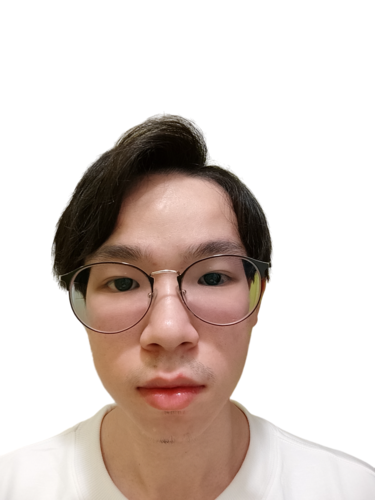
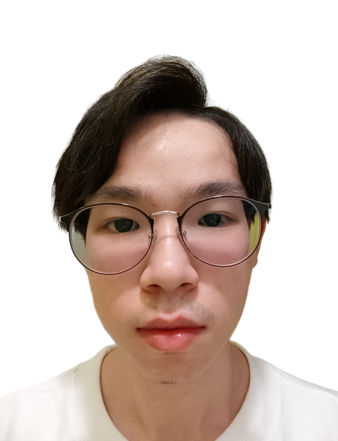
Update portfolio

diff --git a/src/constants/index.js b/src/constants/index.js
@@ -1,13 +1,10 @@
-export const HERO_CONTENT = `I am motivated and detail-oriented software engineering
-                            student with hands-on experience in web development.
-                            Knowledge in HTML, CSS, JavaScript, and React, with
-                            understanding of responsive design principles. Adept at
-                            collaborating with teams to create user-friendly web
-                            applications.Willing to learn from experienced developers
-                            during an internship.
-                            `;
+export const HERO_CONTENT = `Hi👋,
+I am a Software Engineering graduate passionate about building modern, scalable, and user-friendly web applications. I work across the full stack with React, Django, and other cutting-edge technologies to create seamless digital experiences.
+`;
 
-export const ABOUT_TEXT = `I am a motivated and detail-oriented software engineering student at UTAR Sungai Long campus, with hands-on experience in web development. My expertise includes HTML, CSS, JavaScript, and React, and I have understanding of responsive design principles. I am passionate about front-end development and enjoy collaborating with teams to create user-friendly web applications. I am eager to learn from experienced developers during an internship and to further develop my skills in building intuitive and dynamic user interfaces.`;
+export const ABOUT_TEXT = `I'm a recent Software Engineering graduate with hands-on experience in full-stack web development.  
+From designing responsive front-end interfaces with React to building reliable back-end systems with Django, I enjoy creating solutions that are both functional and user-friendly. I'm also proficient with Git/GitHub for version control and thrive in collaborative environments where problem-solving and innovation come together. Beyond coding, I'm passionate about continuously learning new technologies and improving my craft to deliver impactful results. Currently, I'm seeking opportunities where I can apply my skills, contribute to exciting projects, and grow as a developer.
+`;
 
 export const EXPERIENCES = [
   {
@@ -24,9 +21,29 @@ export const EXPERIENCES = [
                   `,
     technologies: ["WordPress", "HTML", "CSS", "JavaScript"],
   },
+  {
+    year: "OCT 2024 - Jan 2025",
+    role: "Software Development Intern",
+    company: "ITS Mart Sdn. Bhd.",
+    description: `Collaborated on enhancing and customizing Odoo CRM modules within the ERP system for the telecommunications industry (Freshtel Internet Sdn Bhd). I contributed to feature improvements and bug fixes, which helped increase system functionality and stability while strengthening my skills in Python and the Odoo framework. In addition, I applied performance optimization techniques to improve application efficiency and adhered to company coding standards, Git workflows, and best practices in software development. I also prepared design documentation and provided project updates during weekly meetings to ensure smooth communication and alignment across the team.
+                  `,
+    technologies: ["Odoo 11", "ERP", "CRM", "Python", "JavaScript", "Git", "Ubuntu", "PostgreSQL"],
+  },
 ];
 
 export const PROJECTS = [
+  {
+    title: "AIRA - AI Resume Analyzer using OpenAI Models",
+    description:
+      "Developed an AI-powered resume analyzer that leverages OpenAI models to evaluate uploaded resumes and provide intelligent feedback with improvement recommendations. The application was designed and built using React.js for the frontend and Django for the backend, with Tailwind CSS to enhance the UI/UX. I integrated the OpenAI API for AI functionality and used PostgreSQL as the database, deploying the project on Render for accessibility. To ensure security and reliability, I implemented Google OAuth for authentication and integrated Google reCAPTCHA to prevent spam.",
+    technologies: ["React.js", "Django", "Tailwind CSS", "Python", "Javascript", "RESTful API", "OpenAI API Key", "PostgreSQL", "Google OAuth", "reCAPTCHA"],
+  },
+  {
+    title: "Prime Cinemas - Movie Ticket Booking System",
+    description:
+      "Developed a full-stack movie ticket booking system using Laravel 8 with Bootstrap for a responsive and user-friendly interface. Implemented key features such as movie listings, showtimes, seat selection, and ticket booking workflows. Designed region-based filtering for showtimes and built an order management system linking users, movies, and bookings. Applied session handling and validation to streamline seat selection and ensure accurate ticket reservations.",
+    technologies: ["Laravel 8", "PHP", "Bootstrap", "Javascript", "MySQL"],
+  },
   {
     title: "Online Food Ordering System (OFOS)",
     description:
@@ -54,7 +71,7 @@ export const PROJECTS = [
 ];
 
 export const CONTACT = {
-  address: "Sungai Long, Kajang, Selangor",
+  address: "Johor Bahru, Johor, Malaysia",
   phoneNo: "+60 16-349 5793",
   email: "tanjunsam3@gmail.com",
 };

diff --git a/src/components/Skills.jsx b/src/components/Skills.jsx
@@ -1,43 +1,50 @@
 import React from 'react'
 import { RiReactjsLine } from 'react-icons/ri'
-import { FaHtml5 } from "react-icons/fa";
-import { FaCss3 } from "react-icons/fa";
+import { FaHtml5, FaCss3, FaPhp, FaGitAlt, FaLaravel } from "react-icons/fa";
+import { FaPython } from "react-icons/fa6";
 import { RiJavascriptLine } from "react-icons/ri";
-import { FaPhp } from "react-icons/fa";
-import { SiMysql } from "react-icons/si";
-import { FaGitAlt } from "react-icons/fa";
-import { AiOutlinePython } from "react-icons/ai";
+import { SiMysql, SiDjango } from "react-icons/si";
 
 export default function Skills() {
   return (
-    <div className='border-b border-neutral-800 pb-24'>
-      <h1 className='my-20 text-center text-4xl'>Skills</h1>
-      <div className='flex flex-wrap items-center justify-center gap-4'>
-        <div className='rounded-2xl border-4 border-neutral-800 p-4'>
-            <RiReactjsLine className='text-7xl text-cyan-500'/>
-        </div>
-        <div className='rounded-2xl border-4 border-neutral-800 p-4'>
-            <FaHtml5 className='text-7xl text-orange-600'/>
-        </div>
-        <div className='rounded-2xl border-4 border-neutral-800 p-4'>
-            <FaCss3 className='text-7xl text-blue-500'/>
-        </div>
-        <div className='rounded-2xl border-4 border-neutral-800 p-4'>
-            <RiJavascriptLine className='text-7xl text-yellow-400'/>
-        </div>
-        <div className='rounded-2xl border-4 border-neutral-800 p-4'>
-            <FaPhp className='text-7xl text-indigo-700'/>
-        </div>
-        <div className='rounded-2xl border-4 border-neutral-800 p-4'>
-            <SiMysql className='text-7xl text-blue-500'/>
-        </div>
-        <div className='rounded-2xl border-4 border-neutral-800 p-4'>
-            <FaGitAlt className='text-7xl text-orange-500'/>
-        </div>
-        <div className='rounded-2xl border-4 border-neutral-800 p-4'>
-            <AiOutlinePython className='text-7xl text-yellow-500'/>
-        </div>
-      </div>
+    <div className="border-b border-white pb-24">
+  <h1 className="my-20 text-center text-4xl text-white">Skills</h1>
+
+  {/* Responsive Grid */}
+  <div className="mx-auto max-w-screen-lg grid grid-cols-2 sm:grid-cols-3 md:grid-cols-4 lg:grid-cols-5 gap-6 justify-items-center">
+    <div className="rounded-2xl border-4 border-neutral-300 p-4">
+      <FaHtml5 className="text-7xl text-orange-600" />
     </div>
+    <div className="rounded-2xl border-4 border-neutral-300 p-4">
+      <FaCss3 className="text-7xl text-blue-500" />
+    </div>
+    <div className="rounded-2xl border-4 border-neutral-300 p-4">
+      <RiJavascriptLine className="text-7xl text-yellow-400" />
+    </div>
+    <div className="rounded-2xl border-4 border-neutral-300 p-4">
+      <FaPython className="text-7xl" style={{ color: "#3776AB" }} />
+    </div>
+    <div className="rounded-2xl border-4 border-neutral-300 p-4">
+      <RiReactjsLine className="text-7xl text-cyan-500" />
+    </div>
+    <div className="rounded-2xl border-4 border-neutral-300 p-4">
+      <SiDjango className="text-7xl text-green-500" />
+    </div>
+    <div className="rounded-2xl border-4 border-neutral-300 p-4">
+      <FaLaravel className="text-7xl text-red-500" />
+    </div>
+    <div className="rounded-2xl border-4 border-neutral-300 p-4">
+      <FaPhp className="text-7xl text-indigo-700" />
+    </div>
+    <div className="rounded-2xl border-4 border-neutral-300 p-4">
+      <SiMysql className="text-7xl text-blue-500" />
+    </div>
+    <div className="rounded-2xl border-4 border-neutral-300 p-4">
+      <FaGitAlt className="text-7xl text-orange-500" />
+    </div>
+  </div>
+</div>
+
+
   )
 }

diff --git a/src/components/WorkExperiece.jsx b/src/components/WorkExperiece.jsx
@@ -3,19 +3,19 @@ import { EXPERIENCES } from '../constants'
 
 export default function WorkExperiece() {
   return (
-    <div className='border-b border-neutral-900 pb4'>
-      <h1 className='my-20 text-center text-4xl'>Work Experience</h1>
+    <div className='border-b border-white pb4'>
+      <h1 className='my-20 text-center text-4xl text-white'>Work Experience</h1>
       <div>
         {EXPERIENCES.map((exp, index)=>(
             <div key={index} className='mb-8 flex flex-wrap lg:justify-center'>
                 <div className='w-full lg:w-1/4'>
-                    <p className='mb-2 text-sm'>{exp.year}</p>
+                    <p className='mb-2 text-sm text-white'>{exp.year}</p>
                 </div>
                 <div className='w-full max-w-xl lg:w-3/4'>
-                    <h6 className='mb-2 font-semibold'>
+                    <h6 className='mb-2 font-semibold text-white'>
                         {exp.role} - <span className='text-sm text-purple-400'>{exp.company}</span>
                     </h6>
-                    <p className='mb-4 text-neutral-900'>
+                    <p className='mb-4 text-neutral-300'>
                         {exp.description}
                     </p>
                     {exp.technologies.map((tech, index)=>(

diff --git a/src/components/Hero.jsx b/src/components/Hero.jsx
@@ -4,17 +4,17 @@ import profilePic from '../assets/profilePic1.png'
 
 export default function Hero() {
   return (
-    <div className='border-b border-neutral-900 pb-4 lg:mb-35'>
+    <div className='border-b border-white pb-4 lg:mb-35'>
       <div className='flex flex-wrap'>
         <div className='w-full lg:w-1/2'>
             <div className='flex flex-col items-center lg:items-start'>
-                <h1 className='pb-16 text-6xl font-thin tracking-tight lg:mt-16 lg:text-8xl'>
+                <h1 className='pb-16 text-6xl text-white font-thin tracking-tight lg:mt-16 lg:text-8xl'>
                     Tan Jun Sam
                 </h1>
                 <span className='bg-gradient-to-r from-pink-300 via-slate-500 to-purple-500 bg-clip-text text-4xl tracking-tight text-transparent'>
                     Software Engineering
                 </span>
-                <p className='my-2 max-w-xl py-6 font-light trancking-tighter'>
+                <p className='my-2 max-w-xl py-6 text-white font-light trancking-tighter whitespace-pre-line'>
                     {HERO_CONTENT}
                 </p>
             </div>

diff --git a/src/components/Projects.jsx b/src/components/Projects.jsx
@@ -3,16 +3,16 @@ import { PROJECTS } from '../constants'
 
 export default function Projects() {
   return (
-    <div className='border-b border-neutral-900 pb-4'>
-      <h1 className='my-20 text-center text-4xl'>
+    <div className='border-b border-white pb-4'>
+      <h1 className='my-20 text-center text-4xl text-white'>
         Projects
       </h1>
       <div>
         {PROJECTS.map((project, index) => (
             <div key={index} className='mb-8 flex flex-wrap lg:justify-center'>
                 <div className='w-full max-w-xl lg:w-3/4'>
-                    <h6 className='mb-2 font-semibold'>{project.title}</h6>
-                    <p className='mb-4'>{project.description}</p>
+                    <h6 className='mb-2 font-semibold text-white'>{project.title}</h6>
+                    <p className='mb-4 text-neutral-300'>{project.description}</p>
                     <div className='flex flex-wrap'>
                       {project.technologies.map((tech, index) =>(
                           <span key={index} className='mr-2 mb-2 rounded bg-purple-400 px-2 py-1 text-sm font-medium text-white'>

diff --git a/src/components/Navbar.jsx b/src/components/Navbar.jsx
@@ -7,8 +7,20 @@ export default function Navbar() {
     <nav className='mb-20 flex items-center justify-between py-6'>
         <div className='flex-1'></div>
         <div className='m-8 flex items-center justify-end gap-4 text-3xl'>
-            <a href="https://www.linkedin.com/in/tan-jun-sam-936a8b315/" target='_blank'><FaLinkedin /></a>
-            <a href="https://github.com/KawaiiMoe3" target='_blank'><FaGithub /></a>
+            <a 
+              href="https://www.linkedin.com/in/tan-jun-sam-936a8b315/" 
+              className='text-white' 
+              target='_blank'
+            >
+              <FaLinkedin />
+            </a>
+            <a 
+              href="https://github.com/KawaiiMoe3" 
+              className='text-white' 
+              target='_blank'
+            >
+              <FaGithub />
+            </a>
         </div>
     </nav>
   )

diff --git a/src/components/About.jsx b/src/components/About.jsx
@@ -4,8 +4,8 @@ import { ABOUT_TEXT } from '../constants'
 
 export default function About() {
   return (
-    <div className='border-b border-neutral-900 pb-4'>
-      <h1 className='my-20 text-center text-4xl'>
+    <div className='border-b border-white pb-4'>
+      <h1 className='my-20 text-center text-4xl text-white'>
             About <span className='text-neutral'>Me</span>
         </h1>
         <div className='flex flex-wrap'>
@@ -16,7 +16,7 @@ export default function About() {
             </div>
             <div className='w-full lg:w-1/2'>
                 <div className='flex justify-center lg:justify-start'>
-                    <p className='my-2 max-w-xl py-6'>{ABOUT_TEXT}</p>
+                    <p className='my-2 max-w-xl py-6 text-white'>{ABOUT_TEXT}</p>
                 </div>
             </div>
         </div>

diff --git a/src/components/Contact.jsx b/src/components/Contact.jsx
@@ -4,13 +4,13 @@ import { CONTACT } from '../constants'
 export default function Contact() {
   return (
     <div className='border-b border-neutral-900 pb-20'>
-      <h1 className='my-10 text-center text-4xl'>
+      <h1 className='my-10 text-center text-4xl text-white'>
         My Contacts
       </h1>
-      <div className='text-center tracking-tighter'>
+      <div className='text-center tracking-tighter text-white'>
         <p className='my-4'>{CONTACT.address}</p>
         <p className='my-4'>{CONTACT.phoneNo}</p>
-        <a href={`mailto:${CONTACT.email}`} className='border-b text-purple-900'>{CONTACT.email}</a>
+        <a href={`mailto:${CONTACT.email}`} className='border-b text-purple-400'>{CONTACT.email}</a>
       </div>
     </div>
   )

diff --git a/src/App.jsx b/src/App.jsx
@@ -11,7 +11,7 @@ export default function App(){
   return(
     <div className='overflow-x-hidden antialiased selection:bg-cyan-300 selection:text-cyan-900'>
       <div className='fixed top-0 -z-10 h-full w-full'>
-        <div className='absolute inset-0 -z-10 h-full w-full bg-white bg-[radial-gradient(#e5e7eb_1px,transparent_1px)] [background-size:16px_16px]'></div>
+        <div class="absolute inset-0 -z-10 h-full w-full items-center px-5 py-24 [background:radial-gradient(125%_125%_at_50%_10%,#000_40%,#63e_100%)]"></div>
       </div>
       
       <div className='container mx-auto px-8'>
